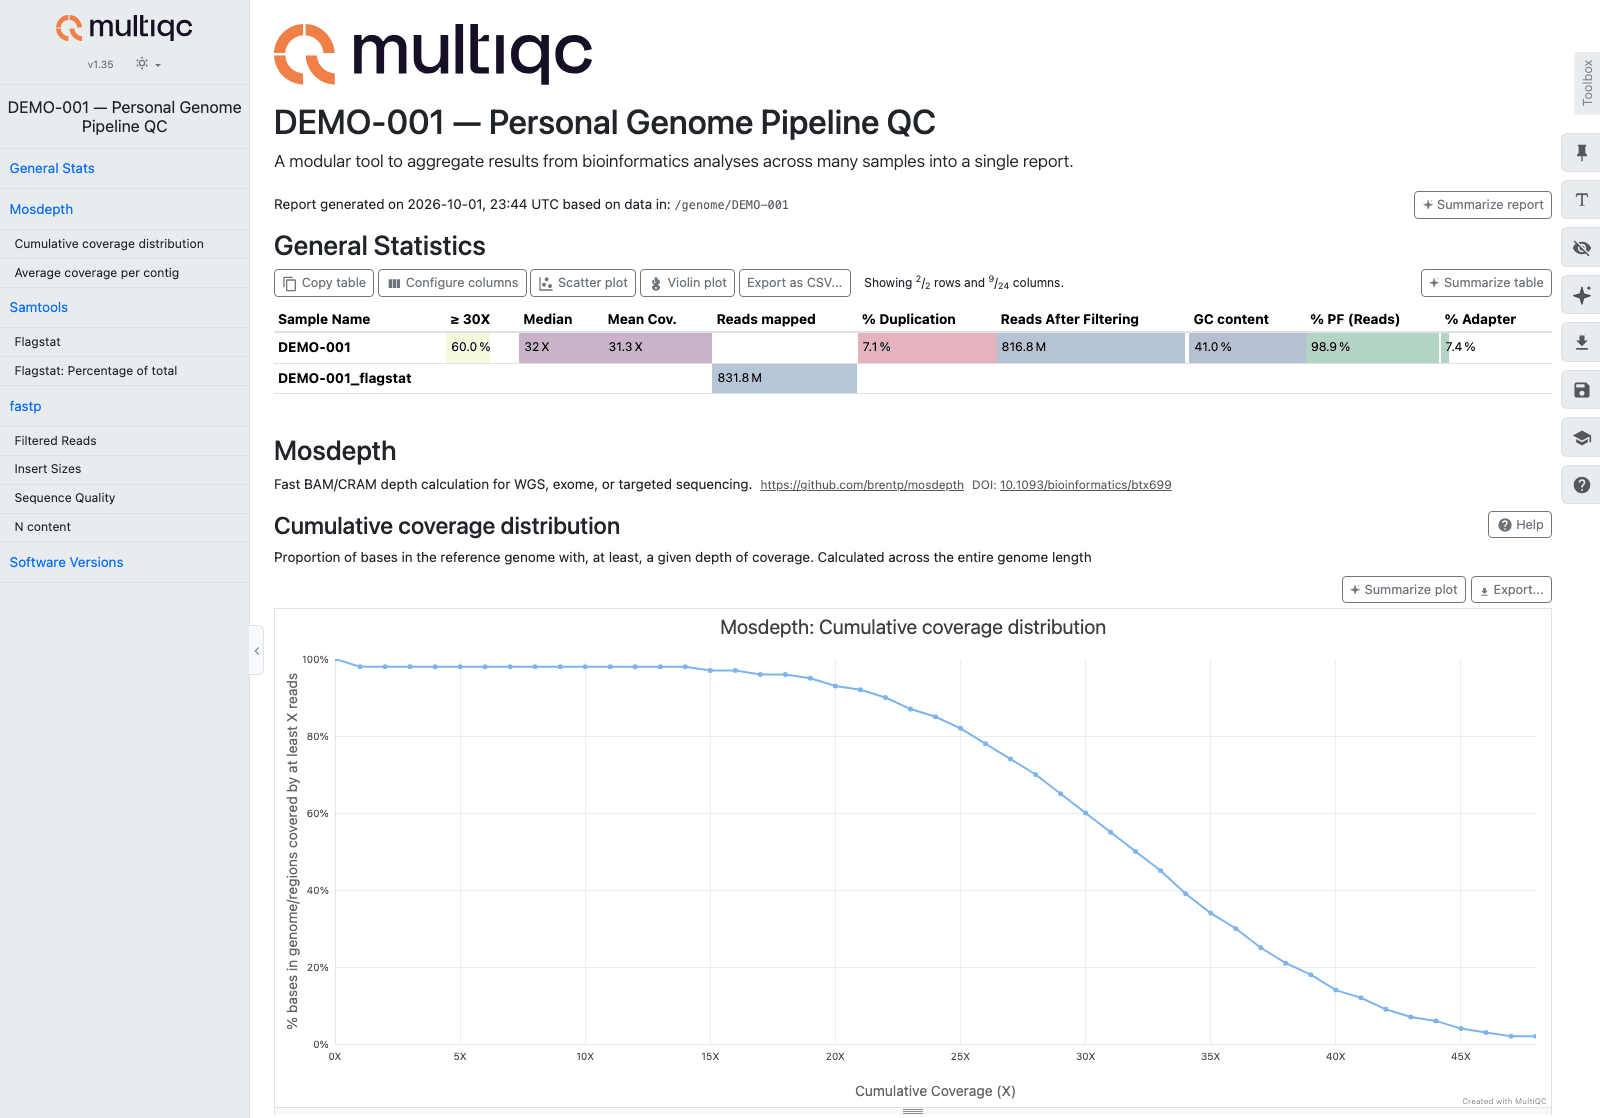
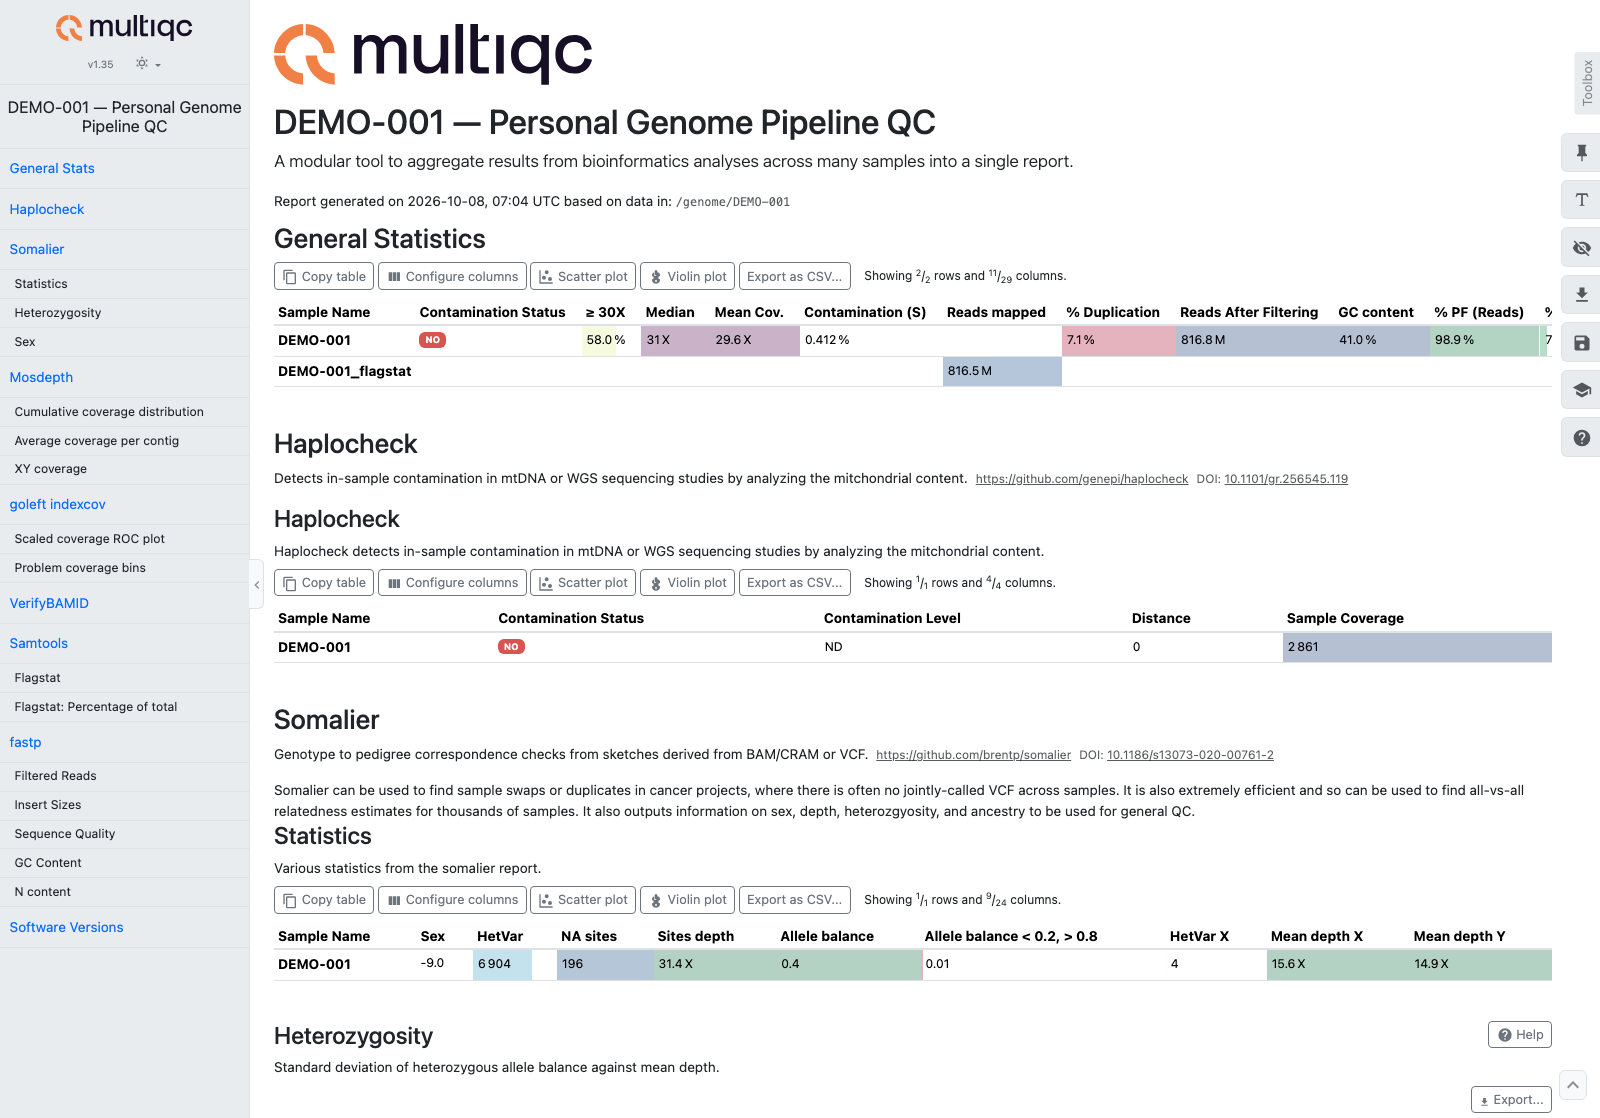
docs: retake the report pictures on main after #92, so they show what the reports print today
The old pictures predated the summary-based report, the step 36 outside
calls, the pgsc_calc PRS card and the haplocheck and Y haplogroup cards.
They are now made by tests/demo/retake-screenshots.sh from the invented
sample DEMO-001; the alt text and captions name what each picture shows.

diff --git a/docs/24-html-report.md b/docs/24-html-report.md
@@ -63,8 +63,8 @@ The report contains:
 A step that is skipped or fails leaves the previous run's output on disk. When `logs/run_status.tsv` exists, a section whose file is older than the latest `run-all.sh` run, and whose step was not `ok` in that run, is marked **STALE** with the file's date and the step's result, in both reports. The pipeline's steps are recorded `ok` only once the whole pipeline has finished: after a failed run every section from before it is marked stale until the same command, with `-resume`, completes. A step you re-ran by hand after that run writes a newer file and is shown as current.
 
 <figure markdown="span">
-  ![The step 24 HTML report: a header with the sample name, then nine cards of counts and statuses](images/demo-html-report.png){ loading=lazy }
-  <figcaption>The report for DEMO-001, an invented sample. Every number is made up. The picture stops at the last card, before the ClinVar hits table and the disclaimer.</figcaption>
+  ![The step 24 HTML report: a header with the sample name, seventeen cards of counts and statuses, then the polygenic risk scores table](images/demo-html-report.png){ loading=lazy }
+  <figcaption>The report for DEMO-001, an invented sample. Every number is made up. The picture stops above the CPIC gene table, so the tables that list genes (the CPIC genes and the ClinVar hits) and the disclaimer are not shown.</figcaption>
 </figure>
 
 ## Runtime

diff --git a/docs/27-cpic-lookup.md b/docs/27-cpic-lookup.md
@@ -51,8 +51,8 @@ The comparison used to be written by step 32. It moved here because `run-all.sh`
 | `pypgx/${SAMPLE}_pharmcat_comparison.tsv` | PharmCAT and pypgx diplotypes side by side (only when step 32 ran) |
 
 <figure markdown="span">
-  ![The step 27 text report: a gene results table, the affected medications for each gene that is not normal, and the genes that could not be called](images/demo-cpic-report.png){ loading=lazy }
-  <figcaption>The report for DEMO-001, an invented sample. The diplotypes and phenotypes are made up and are not anyone's result. CYP2D6 has no call here, so the report lists it under Uncallable Genes instead of leaving it out.</figcaption>
+  ![The top of the step 27 text report: the sample, the PharmCAT version and the gene results table with each gene's diplotype and phenotype](images/demo-cpic-report.png){ loading=lazy }
+  <figcaption>The top of the report for DEMO-001, an invented sample. The diplotypes and phenotypes are made up and are not anyone's result. HLA-A, HLA-B and CYP2D6 are marked as outside calls: step 36 passed them to PharmCAT from the BAM-based callers. Below this table the report lists the medications for each gene that is not normal, the outside calls and the genes that could not be called.</figcaption>
 </figure>
 
 ## Runtime

diff --git a/docs/index.md b/docs/index.md
@@ -57,7 +57,7 @@ hide:
 - **Everything else the reads hold:** HLA type, repeat expansions at the 31 loci of ExpansionHunter's catalog (Huntington's, Fragile X, ALS among them), telomere content, sex-chromosome check, coverage statistics, one HTML report and a MultiQC summary.
 
 <figure markdown="span">
-  ![The step 24 HTML report: cards for variant calling, ClinVar, pharmacogenomics, structural variants, cancer predisposition, repeat expansions, ancestry, mitochondria and the clinical filter](images/demo-html-report.png){ loading=lazy }
+  ![The step 24 HTML report: cards for quality control, variant calling, ClinVar, pharmacogenomics, CPIC, CYP2D6 across callers, HLA typing, structural variants, cancer predisposition, repeat expansions, runs of homozygosity, the mitochondrial and Y haplogroups, telomere length, mitochondrial variants, the clinical filter and slivar, then the polygenic risk scores table](images/demo-html-report.png){ loading=lazy }
   <figcaption markdown>The HTML report from [step 24](24-html-report.md), run on DEMO-001, an invented sample. Every number in it is made up.</figcaption>
 </figure>
 

diff --git a/docs/28-multiqc.md b/docs/28-multiqc.md
@@ -56,7 +56,7 @@ In the Nextflow pipeline, `multiqc` reads the mosdepth summaries only. A run wit
 | HTML report | `multiqc/multiqc_report.html` | Interactive QC dashboard (open in browser) |
 
 <figure markdown="span">
-  ![The MultiQC report: the General Statistics table, then the mosdepth cumulative coverage plot](images/demo-multiqc-report.png){ loading=lazy }
+  ![The MultiQC report: the General Statistics table, then the haplocheck and somalier tables](images/demo-multiqc-report.png){ loading=lazy }
   <figcaption>The top of the MultiQC report for DEMO-001, an invented sample. The read counts and the coverage are made up. The samtools numbers sit in a second row, DEMO-001_flagstat, because MultiQC names that sample after the file.</figcaption>
 </figure>
 
